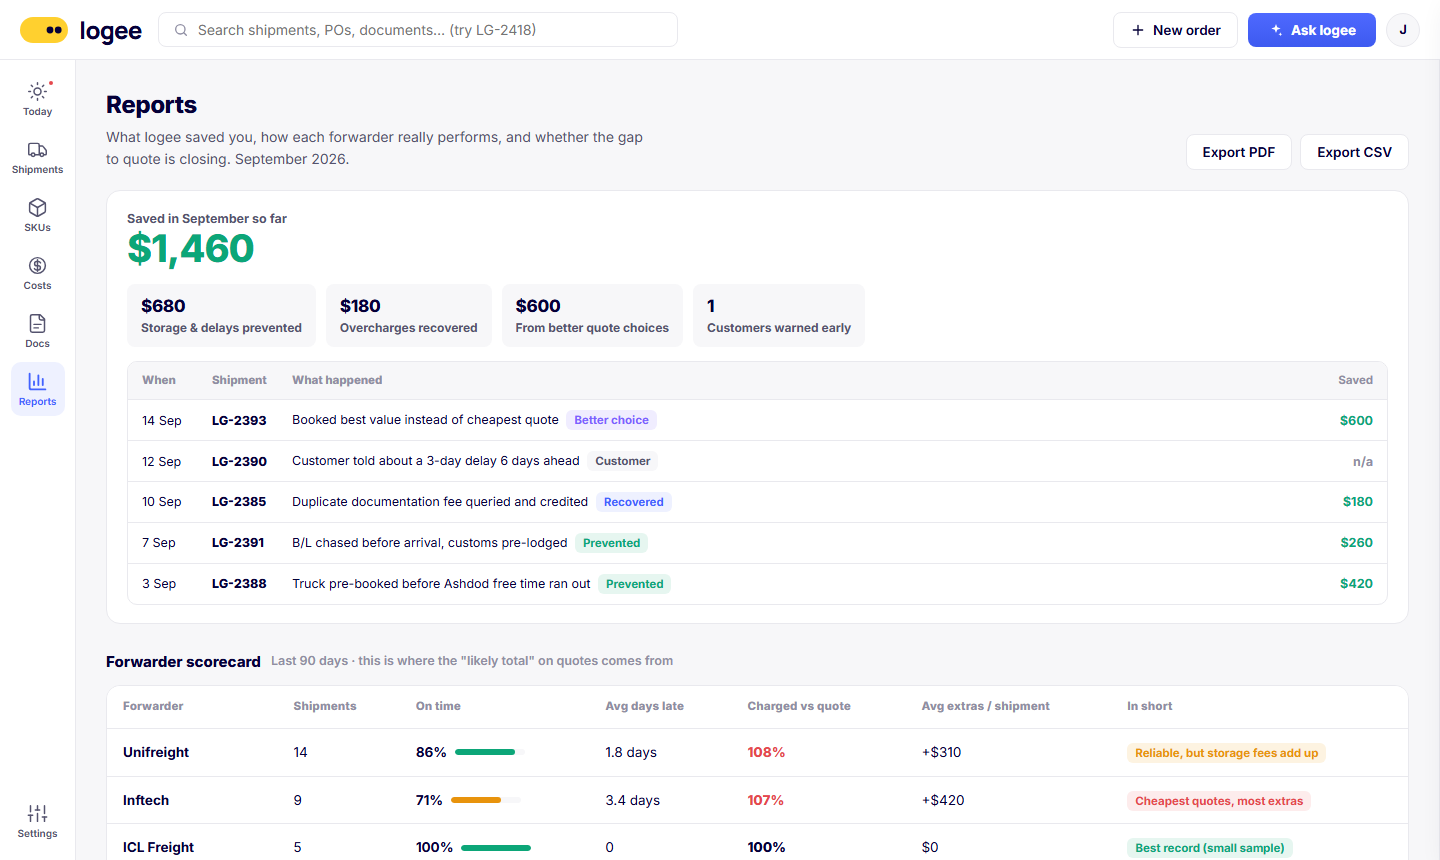
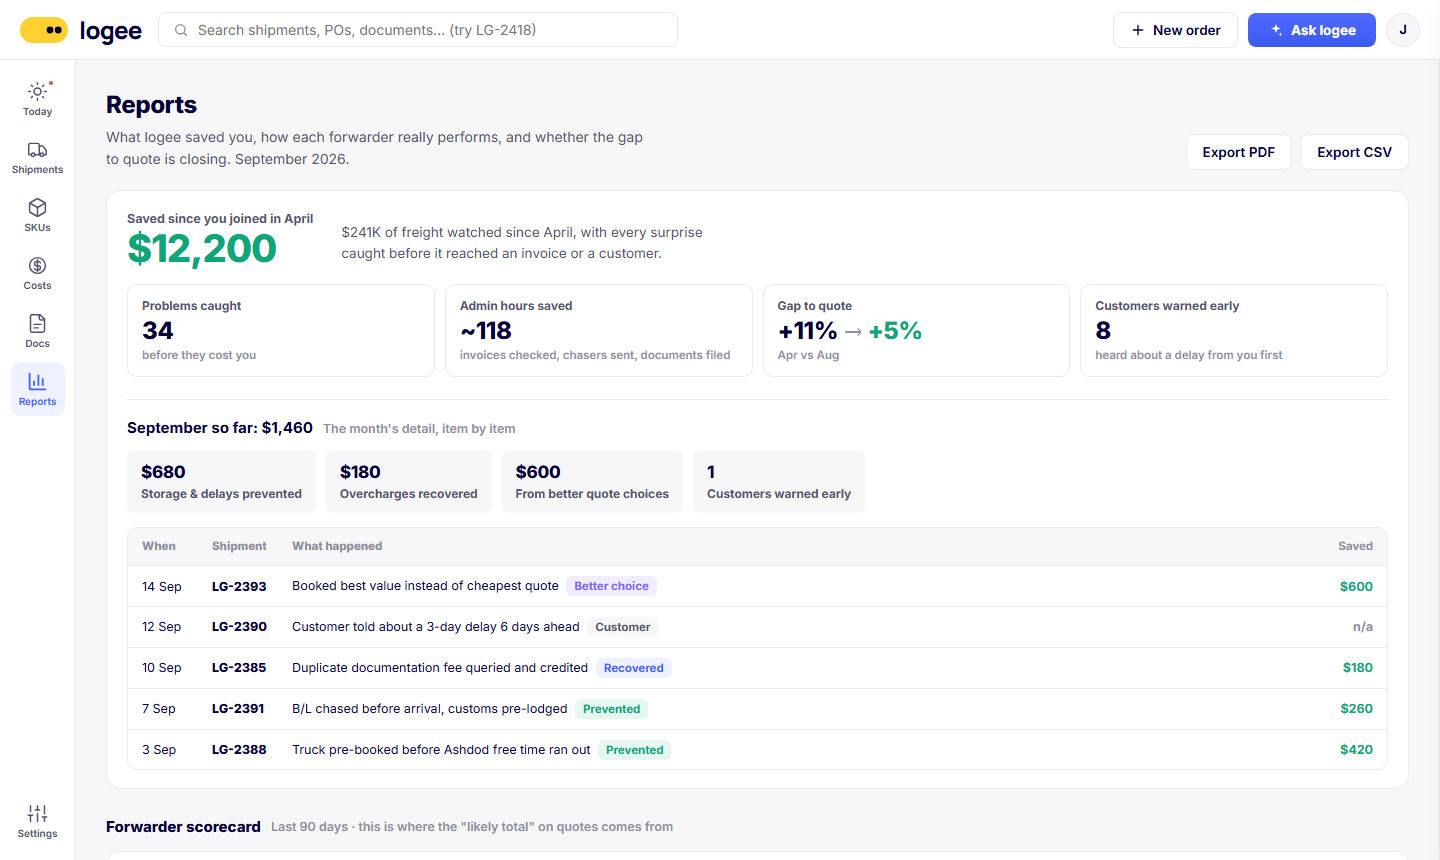
Show value as a running total since joining, not a monthly score
- Reports: lead with "Saved since you joined", freight watched,
  problems caught, admin hours saved, gap to quote then vs now and
  customers warned early; this month's itemised savings sit below
- Today: "Saved since April" tile with this month as the detail
- Retake the Today and Reports screenshots and bump their versions
- how-it-works: describe the running totals on the Reports page

diff --git a/app/Dashboard.html b/app/Dashboard.html
@@ -297,6 +297,18 @@ tbody tr:last-child td{border-bottom:none}
 .rp-hero{display:flex;gap:28px;flex-wrap:wrap;align-items:flex-end;margin-bottom:14px}
 .rp-big .l{font-size:12.5px;font-weight:700;color:var(--ink-soft)}
 .rp-big .n{font-size:38px;font-weight:800;letter-spacing:-1px;color:var(--green);line-height:1.1}
+.rp-watch{font-size:13.5px;color:var(--ink-soft);max-width:48ch;padding-bottom:6px}
+.rp-tiles{display:grid;grid-template-columns:repeat(4,1fr);gap:10px;margin-bottom:22px}
+.rp-tiles div{border:1px solid var(--line);border-radius:var(--r-md);padding:12px 14px}
+.rp-tiles .l{display:block;font-size:12px;font-weight:700;color:var(--ink-soft)}
+.rp-tiles b{display:block;font-size:24px;font-weight:800;letter-spacing:-.5px;line-height:1.3}
+.rp-tiles .arr{color:var(--ink-faint);font-weight:600}
+.rp-tiles .s{display:block;font-size:11.5px;font-weight:600;color:var(--ink-faint)}
+.rp-month{display:flex;align-items:baseline;gap:10px;flex-wrap:wrap;border-top:1px solid var(--line);padding-top:16px;margin-bottom:10px}
+.rp-month b{font-size:15px}
+.rp-month span{font-size:12.5px;color:var(--ink-faint);font-weight:600}
+#view-reports{container-type:inline-size}
+@container (max-width:760px){.rp-tiles{grid-template-columns:repeat(2,1fr)}}
 .rp-split{display:flex;gap:10px;flex-wrap:wrap;margin-bottom:14px}
 .rp-split div{background:var(--canvas);border-radius:var(--r-sm);padding:9px 14px;font-size:12px;font-weight:700;color:var(--ink-soft)}
 .rp-split b{display:block;font-size:17px;color:var(--ink);letter-spacing:-.3px}
@@ -1666,9 +1678,9 @@ function renderOutcome(){
       <div class="d"><span>${m.avoidable?"Storage & delays you can still stop":"Nothing preventable left open"}</span></div>
     </div>
     <div class="out" onclick="showView('reports')">
-      <div class="l">Saved this month</div>
-      <div class="n" style="color:var(--green)">${fmtK(SAVED_EARLIER+savedNow)}</div>
-      <div class="d"><span>by acting before it went wrong</span></div>
+      <div class="l">Saved since ${JOINED}</div>
+      <div class="n" style="color:var(--green)">${fmtK(BEFORE_SEP.saved+SAVED_EARLIER+savedNow)}</div>
+      <div class="d"><span>${fmtK(SAVED_EARLIER+savedNow)} of it this month</span></div>
     </div>`;
 }
 /* right panel: Where you are / About to go wrong / Do this next */
@@ -1990,17 +2002,43 @@ const FWD_STATS=[
 const MONTHS_PAST=[["Apr",32600,36190,18,"Fuel surcharges"],["May",35100,38260,20,"Port storage"],["Jun",38400,42240,22,"Peak-season surcharge"],["Jul",36900,39480,19,"Fuel surcharges"],["Aug",39200,41160,21,"Documentation fees"]];
 const SEP_SHIPMENTS=23, SEP_CAUSE="Storage (LG-2418 Suez delay)";
 
+/* demo: value logged before September, since the customer joined in April.
+   Value is shown as a running total so a quiet month never reads as "logee did nothing". */
+const JOINED="April";
+const BEFORE_SEP={saved:10740,caught:29,hours:96,warned:7};
+const HOURS_SEP=22, HOURS_PER_FIX=0.5;
+function valueTotals(rows){
+  const fixes=HEADSUPS.filter(h=>h.state==="fixed").length;
+  return {
+    saved:BEFORE_SEP.saved+SAVED_EARLIER+savedNow,
+    caught:BEFORE_SEP.caught+SAVINGS_EARLIER.length+fixes,
+    hours:Math.round(BEFORE_SEP.hours+HOURS_SEP+fixes*HOURS_PER_FIX),
+    warned:BEFORE_SEP.warned+rows.filter(r=>r[3]==="customer").length,
+    watched:MONTHS_PAST.reduce((a,m)=>a+m[2],0)+monthNumbers().likely,
+  };
+}
 function renderSavings(){
   const live=HEADSUPS.filter(h=>h.state==="fixed").map(h=>["Today",h.ship,h.done.split(". ")[0],h.custFix?"customer":"prevented",h.cost]);
   const custLive=HEADSUPS.filter(h=>h.custSent&&!h.custFix).map(h=>["Today",h.ship,"Customer updated early","customer",0]);
   const rows=[...live,...custLive,...SAVINGS_EARLIER.slice().reverse()];
   const total=SAVED_EARLIER+savedNow;
+  const v=valueTotals(rows);
+  const first=MONTHS_PAST[0],last=MONTHS_PAST[MONTHS_PAST.length-1];
+  const gap=m=>Math.round((m[2]-m[1])/m[1]*100);
   const sum=k=>rows.filter(r=>r[3]===k).reduce((a,r)=>a+r[4],0);
   const kindTag={prevented:["green","Prevented"],recovered:["blue","Recovered"],chosen:["violet","Better choice"],customer:["plain","Customer"]};
   $("#rpSavings").innerHTML=`
     <div class="rp-hero">
-      <div class="rp-big"><div class="l">Saved in September so far</div><div class="n">${fmt(total)}</div></div>
+      <div class="rp-big"><div class="l">Saved since you joined in ${JOINED}</div><div class="n">${fmt(v.saved)}</div></div>
+      <div class="rp-watch">${fmtK(Math.round(v.watched/1000)*1000)} of freight watched since ${JOINED}, with every surprise caught before it reached an invoice or a customer.</div>
     </div>
+    <div class="rp-tiles">
+      <div><span class="l">Problems caught</span><b>${v.caught}</b><span class="s">before they cost you</span></div>
+      <div><span class="l">Admin hours saved</span><b>~${v.hours}</b><span class="s">invoices checked, chasers sent, documents filed</span></div>
+      <div><span class="l">Gap to quote</span><b>+${gap(first)}% <span class="arr">→</span> <span style="color:var(--green)">+${gap(last)}%</span></b><span class="s">${first[0]} vs ${last[0]}</span></div>
+      <div><span class="l">Customers warned early</span><b>${v.warned}</b><span class="s">heard about a delay from you first</span></div>
+    </div>
+    <div class="rp-month"><b>September so far: ${fmt(total)}</b><span>The month's detail, item by item</span></div>
     <div class="rp-split">
       <div><b>${fmt(sum("prevented"))}</b>Storage &amp; delays prevented</div>
       <div><b>${fmt(sum("recovered"))}</b>Overcharges recovered</div>

diff --git a/how-it-works.html b/how-it-works.html
@@ -409,8 +409,8 @@ footer{padding:56px 0 40px;border-top:1px solid var(--line);margin-top:6px}
   <!-- 10 What changed (full) -->
   <section class="sec tint">
     <div class="wrap">
-      <div class="sec-head"><span class="kick">Reports</span><h2>Reports that show what logee saved you</h2><p>The Reports page itemises every saving: storage prevented, overcharges recovered, better quote choices and customers warned early. Below it, a forwarder scorecard shows each partner's on-time rate and typical extras, a monthly chart shows whether the gap to quote is closing, and the activity log records everything that moved, slipped or landed. Export it as PDF or CSV for your finance team.</p></div>
-      <div class="fullshot shot"><img src="img/reports.png?v=2610" alt="logee Reports: savings this month itemised, and a forwarder scorecard with on-time rate and typical extras" loading="lazy"><div class="cap">Reports · what logee saved you, and how each forwarder really performs</div></div>
+      <div class="sec-head"><span class="kick">Reports</span><h2>Reports that show what logee saved you</h2><p>The Reports page leads with the running total since you joined: money saved, problems caught, admin hours saved and how far your gap to quote has closed. Under it, this month's savings are itemised: storage prevented, overcharges recovered, better quote choices and customers warned early. Further down, a forwarder scorecard shows each partner's on-time rate and typical extras, a monthly chart shows whether the gap to quote is closing, and the activity log records everything that moved, slipped or landed. Export it as PDF or CSV for your finance team.</p></div>
+      <div class="fullshot shot"><img src="img/reports.png?v=2611" alt="logee Reports: savings this month itemised, and a forwarder scorecard with on-time rate and typical extras" loading="lazy"><div class="cap">Reports · what logee saved you, and how each forwarder really performs</div></div>
     </div>
   </section>
 
@@ -418,7 +418,7 @@ footer{padding:56px 0 40px;border-top:1px solid var(--line);margin-top:6px}
   <section class="sec">
     <div class="wrap">
       <div class="sec-head"><span class="kick">Every morning</span><h2>What to do next, ranked by what it costs you</h2><p>Today is the screen to open with your coffee. At the top, where the month ends up if nothing changes: likely spend against quotes, likely on-time deliveries, costs you can still prevent and what you have saved. Below it, one numbered list of next best actions, ranked by money and customer impact: problems the agent forecasts and decisions only you can make, each with its deadline, its impact and a button that takes you straight to the fix.</p></div>
-      <div class="fullshot shot"><img src="img/today.png?v=2610" alt="logee Today view: where the month ends up, a ranked next-best-actions list and a summary panel" loading="lazy"><div class="cap">Today · where the month ends up, and what to do next, ranked</div></div>
+      <div class="fullshot shot"><img src="img/today.png?v=2611" alt="logee Today view: where the month ends up, a ranked next-best-actions list and a summary panel" loading="lazy"><div class="cap">Today · where the month ends up, and what to do next, ranked</div></div>
     </div>
   </section>
 

diff --git a/capabilities.html b/capabilities.html
@@ -210,7 +210,7 @@ footer{padding:56px 0 40px;border-top:1px solid var(--line);margin-top:6px}
         <div class="capcard"><div class="ci"><svg viewBox="0 0 24 24" fill="none" stroke="currentColor" stroke-width="2" stroke-linecap="round" stroke-linejoin="round"><path d="M21 15a2 2 0 0 1-2 2H7l-4 4V5a2 2 0 0 1 2-2h14a2 2 0 0 1 2 2z"/><path d="M8 9h8M8 13h5"/></svg></div><h3>Ask logee anything</h3><p>Ask a plain-language question about any shipment, cost or document and get an answer grounded in your own data.</p></div>
         <div class="capcard"><div class="ci"><svg viewBox="0 0 24 24" fill="none" stroke="currentColor" stroke-width="2" stroke-linecap="round" stroke-linejoin="round"><path d="M12 3l1.8 5.2L19 10l-5.2 1.8L12 17l-1.8-5.2L5 10l5.2-1.8z"/></svg></div><h3>Learns as you work</h3><p>The agent picks up new contacts from incoming email and gets more useful the more you run through it.</p></div>
       </div>
-      <div class="shot"><img src="img/today.png?v=2610" alt="logee Today view with next best actions ranked by money and customer impact" loading="lazy"><div class="cap">Today · next best actions, ranked by money and customer impact</div></div>
+      <div class="shot"><img src="img/today.png?v=2611" alt="logee Today view with next best actions ranked by money and customer impact" loading="lazy"><div class="cap">Today · next best actions, ranked by money and customer impact</div></div>
     </div>
   </section>
 

diff --git a/what-it-watches.html b/what-it-watches.html
@@ -227,7 +227,7 @@ footer{padding:56px 0 40px;border-top:1px solid var(--line);margin-top:6px}
   <section class="sec">
     <div class="wrap">
       <div class="grouphead"><span class="kick">In the product</span><h2>What it looks like when logee catches something</h2><p>The Today screen is where all six categories come together: one ranked list of what to do next, each with the money at risk and the fix.</p></div>
-      <div class="shot"><img src="img/today.png?v=2610" alt="logee Today view ranking next best actions: a late shipment accruing storage, a container at risk of overstaying free time and an invoice above quote" loading="lazy"><div class="cap">Today · next best actions, each with its cost and the fix</div></div>
+      <div class="shot"><img src="img/today.png?v=2611" alt="logee Today view ranking next best actions: a late shipment accruing storage, a container at risk of overstaying free time and an invoice above quote" loading="lazy"><div class="cap">Today · next best actions, each with its cost and the fix</div></div>
     </div>
   </section>
 

diff --git a/index.html b/index.html
@@ -525,7 +525,7 @@ footer{padding:56px 0 40px;border-top:1px solid var(--line);margin-top:6px}
     <div class="hero-visual">
       <div class="glow"></div>
       <div class="hero-shot">
-        <img src="img/today.png?v=2610" alt="logee.ai Today view: a ranked list of next best actions, each with the money at risk and a one-click fix, under a forecast of where the month's freight spend will end up">
+        <img src="img/today.png?v=2611" alt="logee.ai Today view: a ranked list of next best actions, each with the money at risk and a one-click fix, under a forecast of where the month's freight spend will end up">
       </div>
     </div>
   </div>
